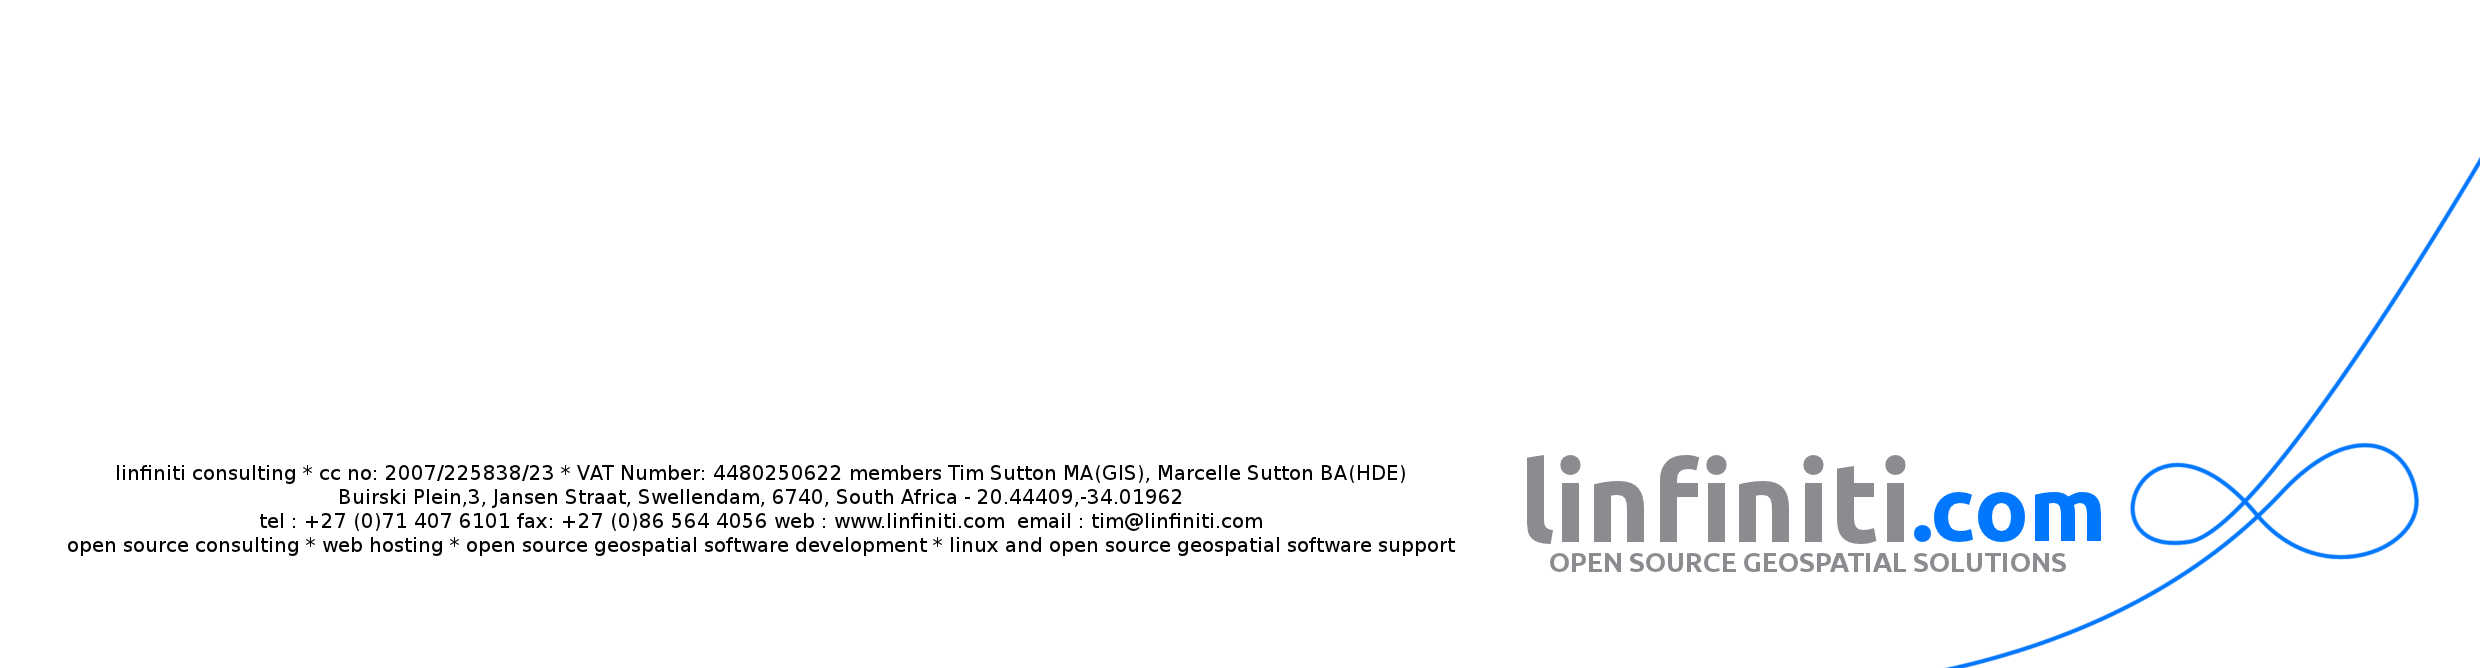
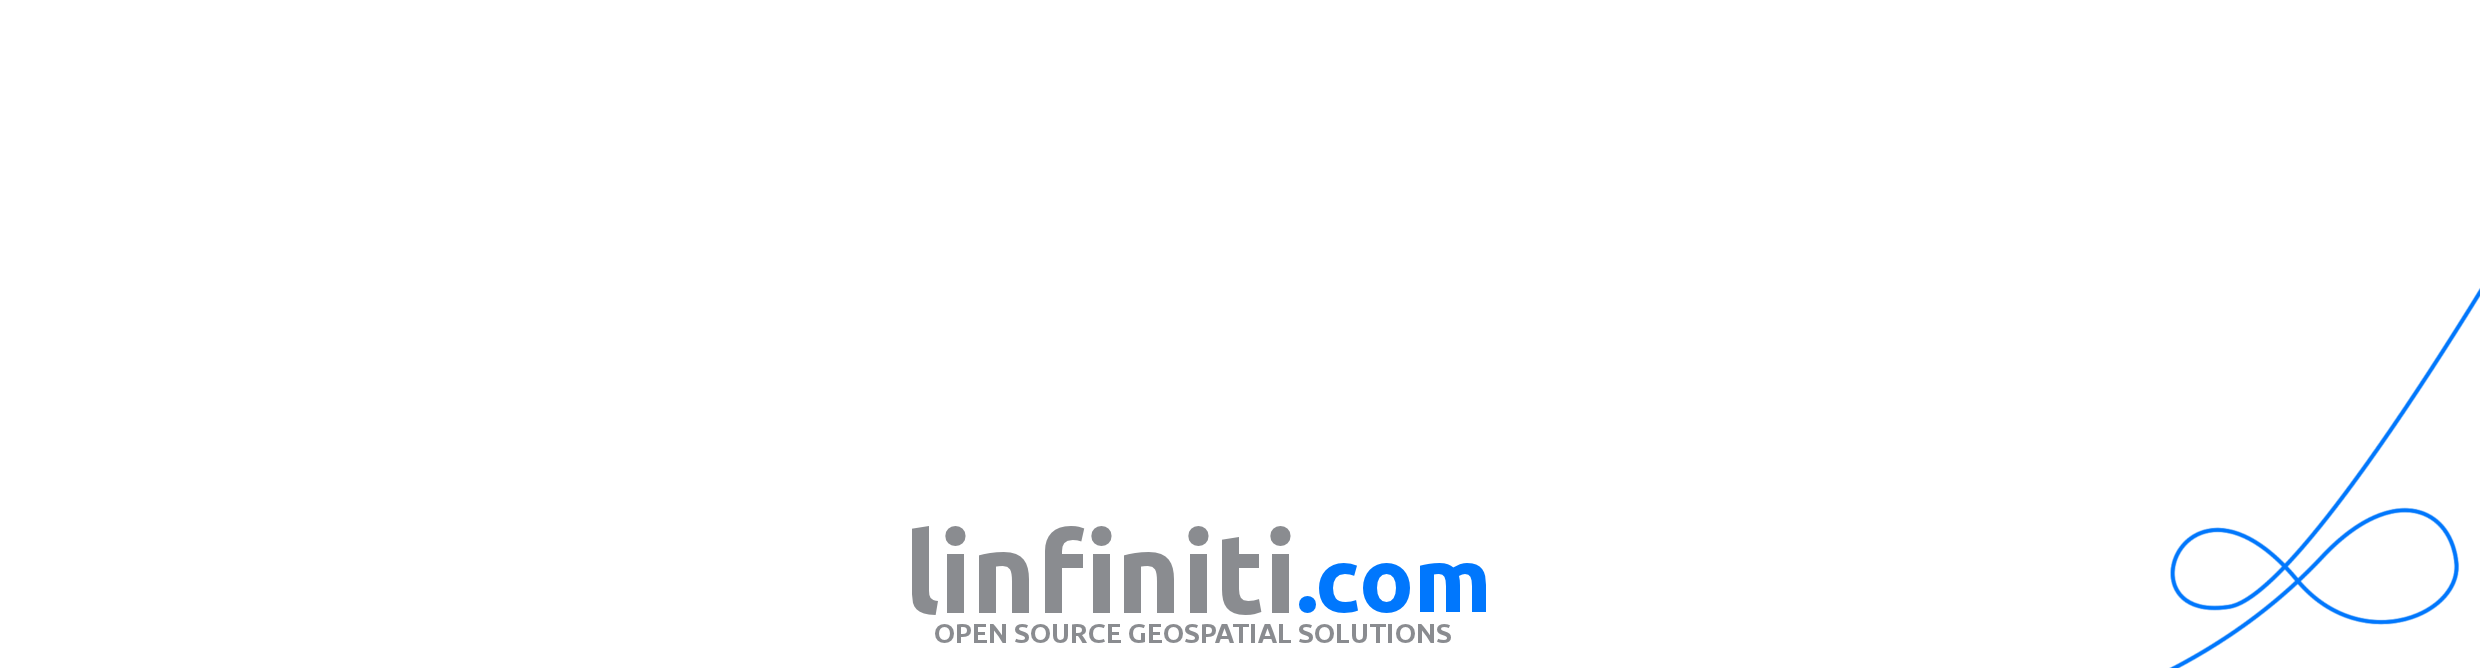
Better footer and other pdf tweaks

diff --git a/conf.py b/conf.py
@@ -205,13 +205,13 @@ latex_elements = {
 #]
 # manual style = report cls
 latex_documents = [
-  ('index', 'LinfinitiQGISTrainingManual.tex', u'Linfiniti QGIS Training Manual',
+  ('index', 'LinfinitiQGISTrainingManual.tex', u'Quantum GIS Training Manual',
    u'Tim Sutton, Rudi Thiede', 'manual'),
 ]
 
 # The name of an image file (relative to this directory) to place at the top of
 # the title page.
-latex_logo = 'linfiniti-theme/static/img/logo_header_200.png'
+latex_logo = 'qgis-logo-large.png'
 
 # For "manual" documents, if this is true, then toplevel headings are parts,
 # not chapters.
